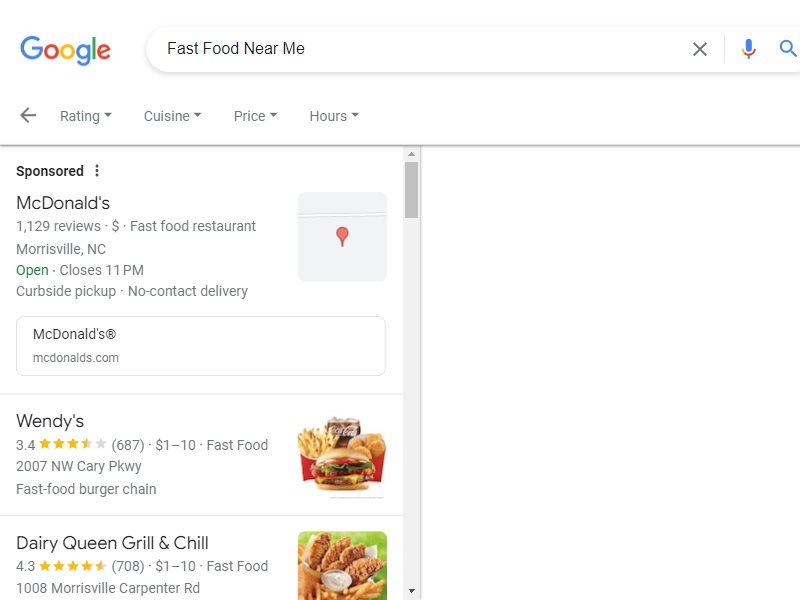
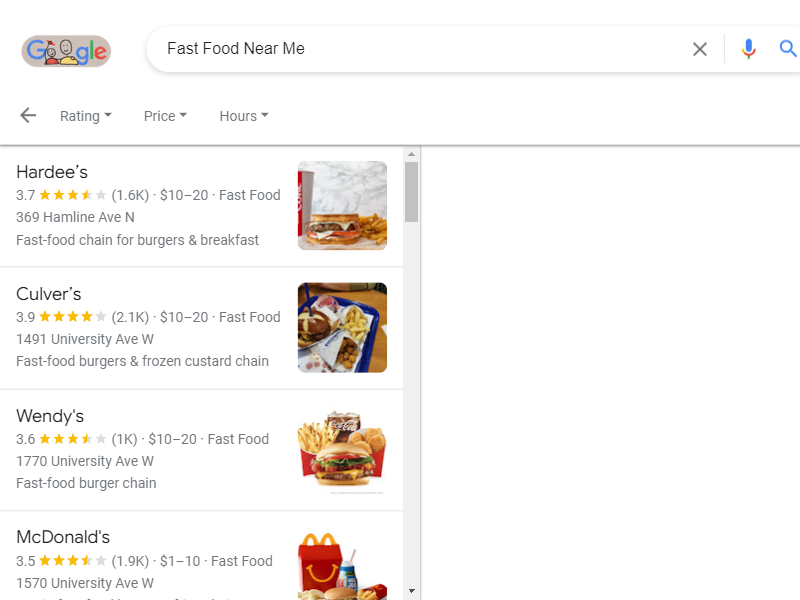
little change

diff --git a/react-app/src/components/DNBodyPage.js b/react-app/src/components/DNBodyPage.js
@@ -210,7 +210,7 @@ function DNBodyPage(){
             <p class = "stars">{splitter()[1]}</p>
             <img class = {class_change} src></img>
             </div>
-            <p class = "check">{splitter()[2]}</p>
+            <p class = "check">Review Amount: {splitter()[2]}</p>
             <p class = {c_change}></p>
             <p class = "p_class">{splitter()[3]}</p>
             <p class = "p_class">{splitter()[4]}</p>

diff --git a/react-app/src/components/FFBodyPage.js b/react-app/src/components/FFBodyPage.js
@@ -185,7 +185,7 @@ function FFBodyPage(){
             <p class = "stars">{splitter()[1]}</p>
             <img class = {class_change} src></img>
             </div>
-            <p class = "check">{splitter()[2]}</p>
+            <p class = "check">Review Amount: {splitter()[2]}</p>
             <p class = {c_change}></p>
             <p>{splitter()[3]}</p>
             <p>{splitter()[4]}</p>

diff --git a/react-app/src/components/GCBodyPage.js b/react-app/src/components/GCBodyPage.js
@@ -185,7 +185,7 @@ function GCBodyPage(){
             <p class = "stars">{splitter()[1]}</p>
             <img class = {class_change} src></img>
             </div>
-            <p class = "check">{splitter()[2]}</p>
+            <p class = "check">Review Amount: {splitter()[2]}</p>
             <p class = {c_change}></p>
             <p>{splitter()[3]}</p>
             <p>{splitter()[4]}</p>
